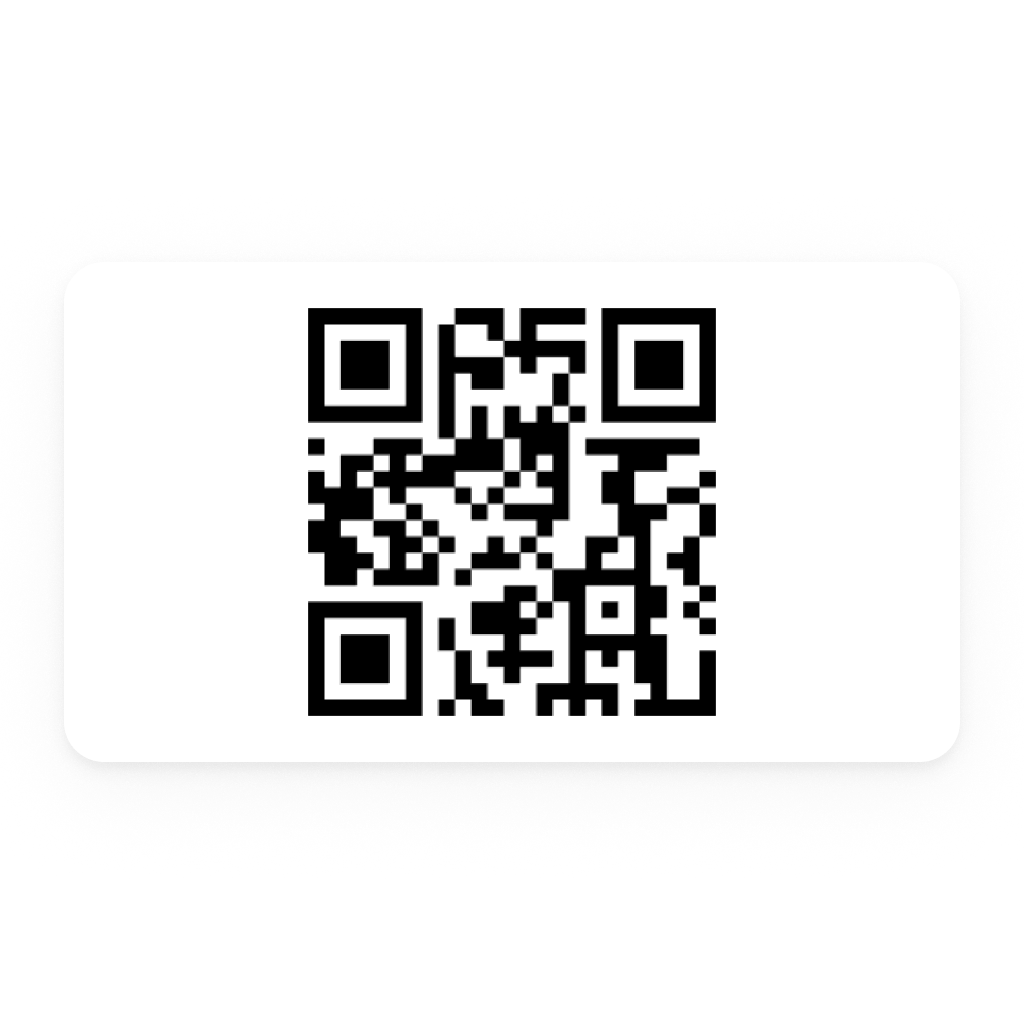
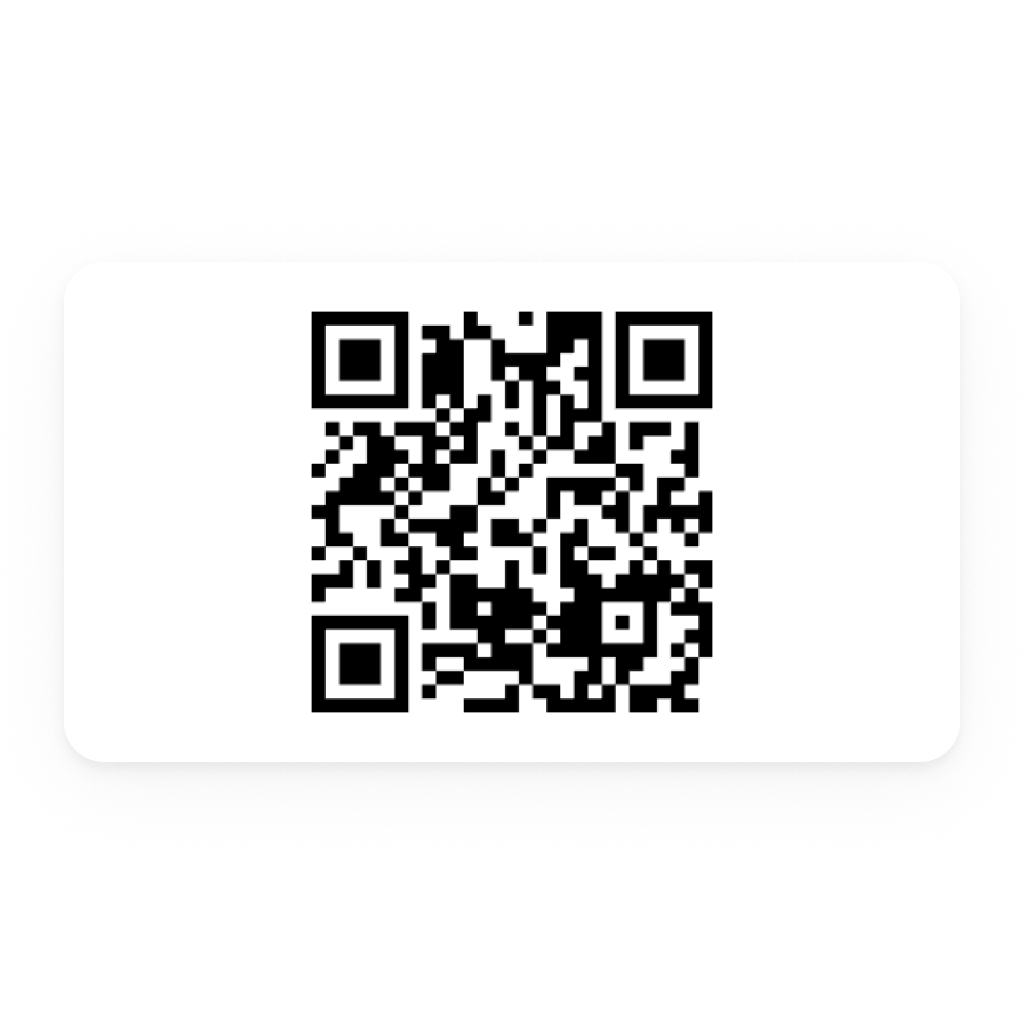
Add dark mode support

Changed region(s): [[0.2812, 0.2812, 0.7188, 0.7188]]

diff --git a/widgets/url/public/index.html b/widgets/url/public/index.html
@@ -10,7 +10,7 @@
           justify-content: center;
           align-items: center;
           min-height: 100vh;
-          background: white;
+          background: var(--homey-background-color);
         }
         #qrcode {
           margin: -10px;
@@ -24,22 +24,51 @@
       function onHomeyReady(Homey) {
         try {
           const qrcodeDiv = document.getElementById('qrcode');
-          const text = Homey.getSettings().text; 
+          const text = Homey.getSettings().text;
           if (!text) {
             Homey.ready();
-            qrcodeDiv.innerHTML = '<p>Please configure the widget with text to generate a QR code.</p>';
+            qrcodeDiv.innerHTML = '<p>Please configure the widget first.</p>';
             return;
           }
-          const size = Math.min(window.innerWidth, window.innerHeight) * 0.9;
-          qrcodeDiv.innerHTML = '';
-          new QRCode(qrcodeDiv, {
-            text: text,
-            width: Math.floor(size),
-            height: Math.floor(size),
-            colorDark: '#000000',
-            colorLight: '#ffffff',
-            correctLevel: QRCode.CorrectLevel.H
+
+          function isDarkMode() {
+            const bg = getComputedStyle(document.body)
+              .getPropertyValue('--homey-background-color')
+              .trim();
+            const tempEl = document.createElement('div');
+            tempEl.style.color = 'var(--homey-background-color)';
+            document.body.appendChild(tempEl);
+            const resolved = getComputedStyle(tempEl).color;
+            document.body.removeChild(tempEl);
+            const match = resolved.match(/\d+/g);
+            if (!match) return false;
+            const [r, g, b] = match.map(Number);
+            const luminance = (0.299 * r + 0.587 * g + 0.114 * b);
+            return luminance < 128;
+          }
+
+          function generateQRCode() {
+            const dark = isDarkMode();
+            const size = Math.min(window.innerWidth, window.innerHeight) * 0.9;
+            qrcodeDiv.innerHTML = '';
+            new QRCode(qrcodeDiv, {
+              text: text,
+              width: Math.floor(size),
+              height: Math.floor(size),
+              colorDark: dark ? '#ffffff' : '#000000',
+              colorLight: dark ? '#2a2a2e' : '#ffffff',
+              correctLevel: QRCode.CorrectLevel.H
+            });
+          }
+
+          const observer = new MutationObserver(generateQRCode);
+          observer.observe(document.documentElement, {
+            attributes: true,
+            attributeFilter: ['class', 'style'],
+            subtree: true
           });
+
+          generateQRCode();
           Homey.ready();
         } catch (error) {
           console.error('Error generating QR code:', error);

diff --git a/widgets/text/public/index.html b/widgets/text/public/index.html
@@ -10,7 +10,7 @@
           justify-content: center;
           align-items: center;
           min-height: 100vh;
-          background: white;
+          background: var(--homey-background-color);
         }
         #qrcode {
           margin: -10px;
@@ -27,19 +27,49 @@
           const text = Homey.getSettings().text;
           if (!text) {
             Homey.ready();
-            qrcodeDiv.innerHTML = '<p>Please configure the widget with text to generate a QR code.</p>';
+            qrcodeDiv.innerHTML = '<p>Please configure the widget first.</p>';
             return;
           }
-          const size = Math.min(window.innerWidth, window.innerHeight) * 0.9;
-          qrcodeDiv.innerHTML = '';
-          new QRCode(qrcodeDiv, {
-            text: text,
-            width: Math.floor(size),
-            height: Math.floor(size),
-            colorDark: '#000000',
-            colorLight: '#ffffff',
-            correctLevel: QRCode.CorrectLevel.H
+
+          function isDarkMode() {
+            const bg = getComputedStyle(document.body)
+              .getPropertyValue('--homey-background-color')
+              .trim();
+            const tempEl = document.createElement('div');
+            tempEl.style.color = 'var(--homey-background-color)';
+            document.body.appendChild(tempEl);
+            const resolved = getComputedStyle(tempEl).color;
+            document.body.removeChild(tempEl);
+            const match = resolved.match(/\d+/g);
+            if (!match) return false;
+            const [r, g, b] = match.map(Number);
+            const luminance = (0.299 * r + 0.587 * g + 0.114 * b);
+            return luminance < 128;
+          }
+
+          function generateQRCode() {
+            const dark = isDarkMode();
+            const size = Math.min(window.innerWidth, window.innerHeight) * 0.9;
+            qrcodeDiv.innerHTML = '';
+            new QRCode(qrcodeDiv, {
+              text: text,
+              width: Math.floor(size),
+              height: Math.floor(size),
+              colorDark: dark ? '#ffffff' : '#000000',
+              colorLight: dark ? '#2a2a2e' : '#ffffff',
+              correctLevel: QRCode.CorrectLevel.H
+            });
+          }
+
+          // Watch for any class or style changes on body or its parents
+          const observer = new MutationObserver(generateQRCode);
+          observer.observe(document.documentElement, {
+            attributes: true,
+            attributeFilter: ['class', 'style'],
+            subtree: true
           });
+
+          generateQRCode();
           Homey.ready();
         } catch (error) {
           console.error('Error generating QR code:', error);
